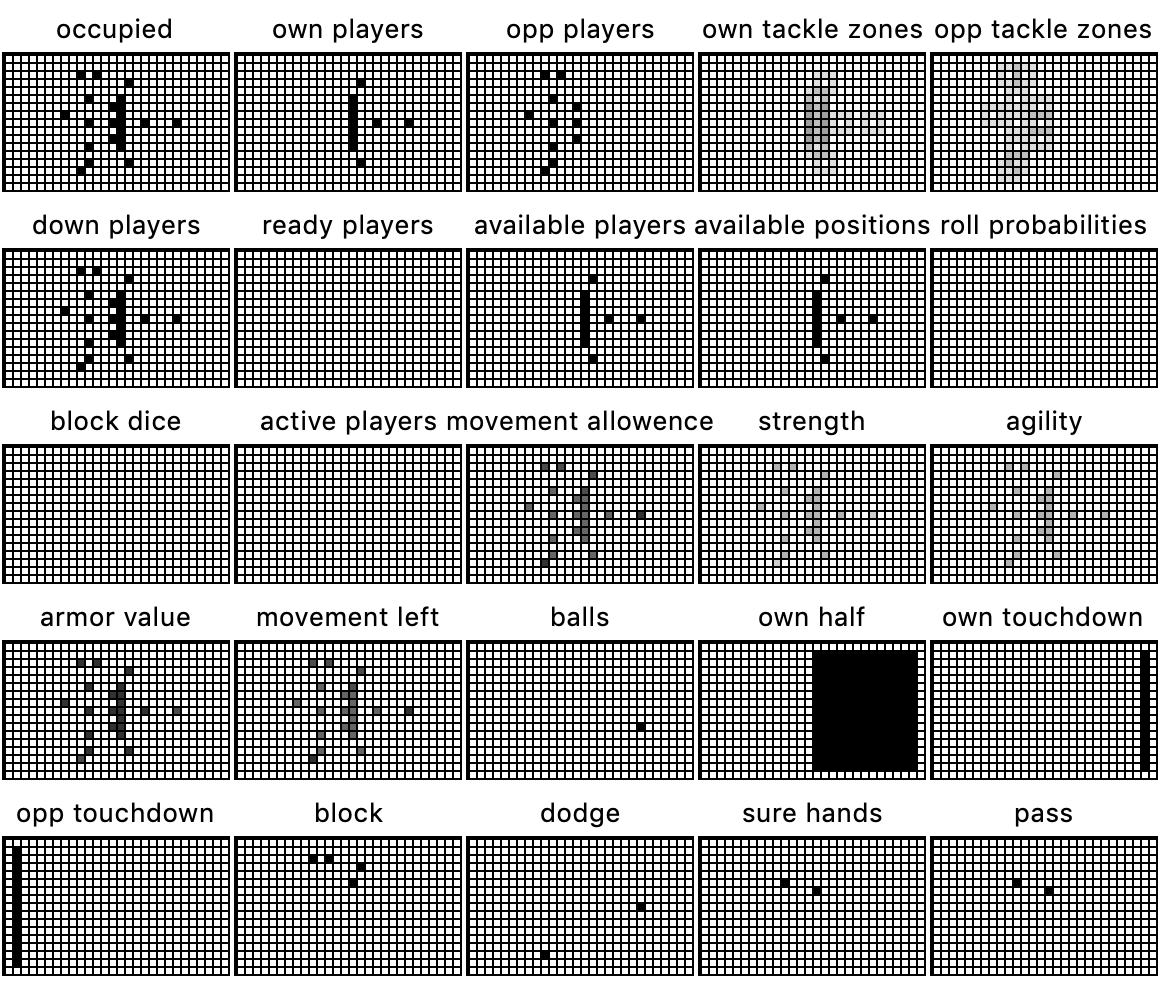
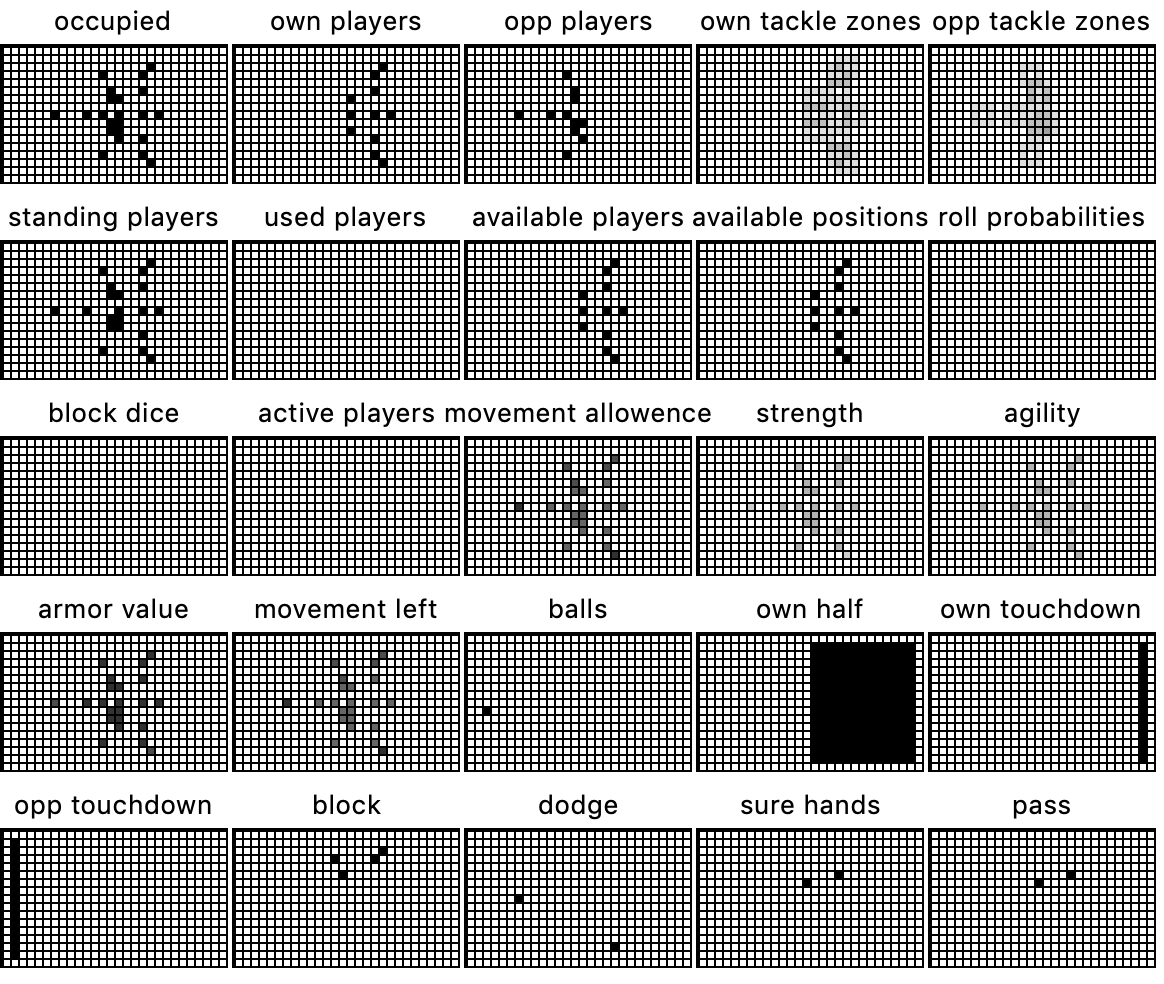
turns set to 8 for all variants

diff --git a/ffai/ai/env.py b/ffai/ai/env.py
@@ -349,7 +349,7 @@ class FFAIEnv(gym.Env):
         if self.root is None:
             self.root = tk.Tk()
             self.root.title("FFAI Gym")
-            self.game_width = self.game.arena.width*FFAIEnv.square_size
+            self.game_width = max(500, self.game.arena.width*FFAIEnv.square_size)
             self.game_height = self.game.arena.height*FFAIEnv.square_size + FFAIEnv.top_bar_height + FFAIEnv.bot_bar_height
             if feature_layers:
                 self.cols = math.floor(math.sqrt(len(self.layers)))

diff --git a/examples/gym_example.py b/examples/gym_example.py
@@ -5,12 +5,12 @@ import ffai.ai
 if __name__ == "__main__":
 
     # Create environment
-    env = gym.make("FFAI-v1")
+    # env = gym.make("FFAI-v1")
 
     # Smaller variants
     # env = gym.make("FFAI-7-v1")
     # env = gym.make("FFAI-5-v1")
-    # env = gym.make("FFAI-3-v1")
+    env = gym.make("FFAI-3-v1")
 
     # Get observations space (layer, height, width)
     obs_space = env.observation_space

diff --git a/ffai/ai/layers.py b/ffai/ai/layers.py
@@ -117,7 +117,7 @@ class UsedLayer(FeatureLayer):
         return out
 
     def name(self):
-        return "ready players"
+        return "used players"
 
 
 class UpLayer(FeatureLayer):
@@ -136,7 +136,7 @@ class UpLayer(FeatureLayer):
         return out
 
     def name(self):
-        return "down players"
+        return "standing players"
 
 
 class StunnedLayer(FeatureLayer):
